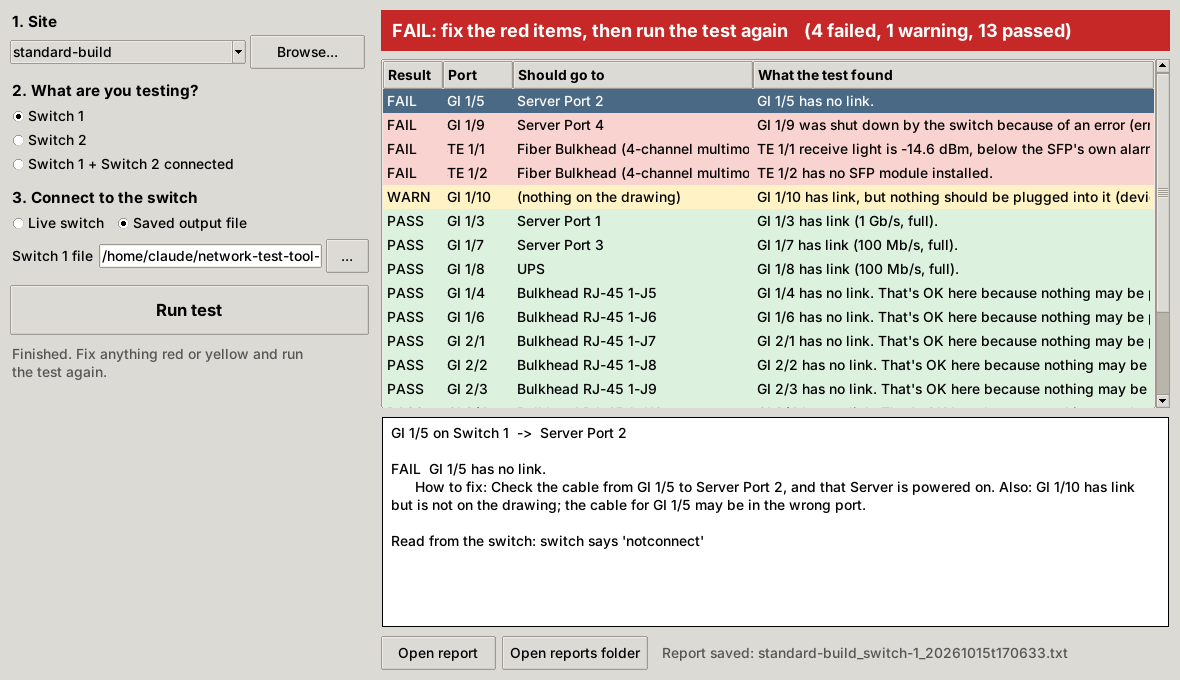
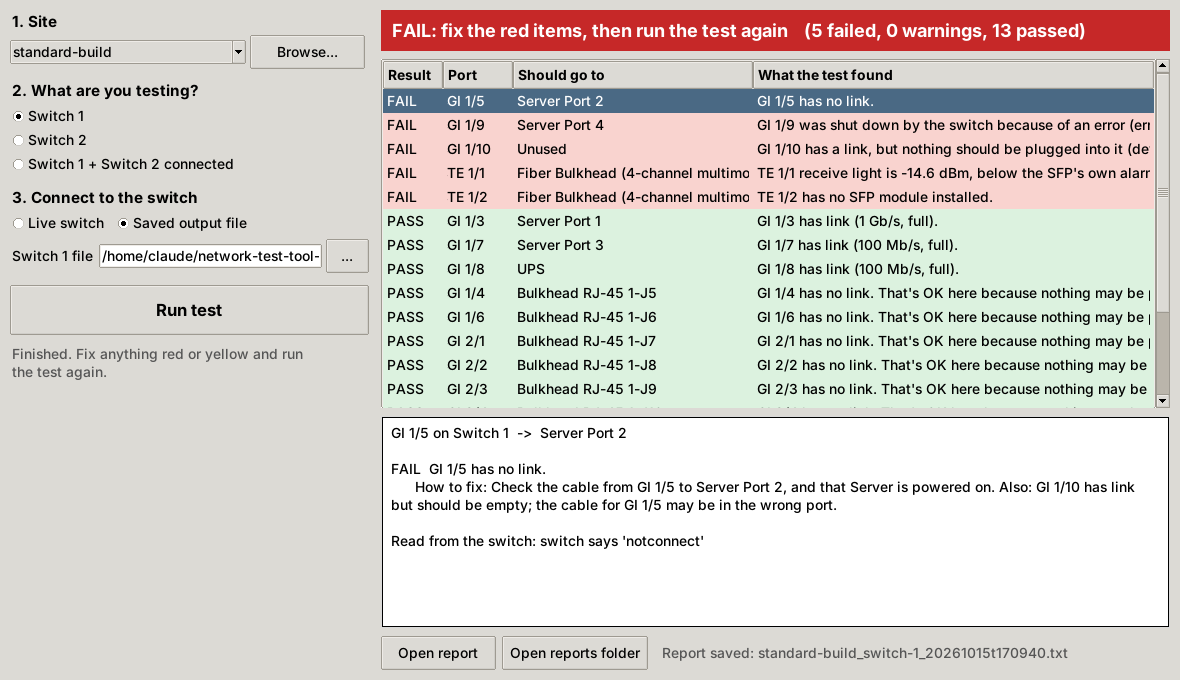
Check unused ports: GI 1/4 on Switch 2 and GI 1/10 on Switch 1
Ports that are on the drawing but empty now have a config entry with
connects_to.kind "unused" and link "down". They pass when empty and fail when
something is plugged in, and show up in every result list. An unused port the
switch doesn't have is skipped rather than failed.

Claude-Session: https://claude.ai/code/session_01FYPcBLZiLEHxvoRsUK1LXB

diff --git a/nettest/checker.py b/nettest/checker.py
@@ -133,7 +133,7 @@ class SwitchChecker:
         if not self.snap.has("status"):
             reason = self.snap.unavailable.get("show interfaces status", "no output")
             raise ValueError("Couldn't read port status from %s (%s)" % (self.plan.name, reason))
-        results = [self.check_port(p) for p in self.plan.ports]
+        results = [r for r in (self.check_port(p) for p in self.plan.ports) if r is not None]
         results += self.check_unlisted()
         self._add_cross_port_hints(results)
         return results
@@ -158,6 +158,9 @@ class SwitchChecker:
                         "Ask whoever maintains the configs to finish this entry in combined.json."))
             return result
 
+        unused = port.connects_to.get("kind") == "unused"
+        if row is None and unused:
+            return None  # e.g. an expansion-module port on a switch without the module
         if row is None:
             add(Finding(Status.FAIL, "link",
                         "%s (%s) doesn't exist on %s." % (label, port.interface, self.plan.name),
@@ -175,7 +178,7 @@ class SwitchChecker:
             self._check_speed_duplex(result, port, row)
             self._check_neighbor(result, port)
             self._check_macs(result, port)
-        if port.media == "fiber":
+        if port.media == "fiber" and not unused:
             self._check_optic(result, port, row, state)
 
         if not result.findings:
@@ -193,15 +196,20 @@ class SwitchChecker:
 
         if state == "up":
             if want == "down":
-                add(Finding(Status.FAIL, "link",
-                            "%s has a link, but nothing should be plugged into it." % label,
-                            "Unplug the cable from %s, or check the drawing." % label))
+                add(Finding(Status.FAIL, "unused",
+                            "%s has a link, but nothing should be plugged into it%s."
+                            % (label, self._describe_far_end(port.interface)),
+                            "Check whether a cable meant for another port was plugged into "
+                            "%s by mistake, and unplug it." % label))
             else:
                 row = self.snap.status[port.interface]
                 add(Finding(Status.PASS, "link", "%s has link (%s, %s)."
                             % (label, _speed_text(row["speed_mbps"]), row["duplex"] or "auto")))
             return
 
+        if want == "down" and state in ("admin-down", "no-sfp", "down"):
+            add(Finding(Status.PASS, "link", "%s is empty, as expected." % label))
+            return
         if state == "admin-down":
             add(Finding(Status.FAIL if want == "up" else Status.WARN, "link",
                         "%s is turned off in the switch configuration (shutdown)." % label,
@@ -499,20 +507,21 @@ class SwitchChecker:
     # ---- hints that need every port's result --------------------------
 
     def _add_cross_port_hints(self, results):
-        stray = [r for r in results if not r.listed]
+        stray = [r for r in results
+                 if any(f.check in ("unlisted", "unused") and f.status != Status.PASS
+                        for f in r.findings)]
         if not stray:
             return
         names = ", ".join(r.diagram_label for r in stray)
         for r in results:
-            if not r.listed:
+            if r in stray:
                 continue
             nolink = [f for f in r.findings if f.check == "link" and f.status == Status.FAIL
                       and "no link" in f.message]
             for f in nolink:
                 f.action = (f.action or "") + (
-                    " Also: %s %s link but %s not on the drawing; the cable for %s may be "
+                    " Also: %s %s link but should be empty; the cable for %s may be "
                     "in the wrong port." % (names, "has" if len(stray) == 1 else "have",
-                                            "is" if len(stray) == 1 else "are",
                                             r.diagram_label))
 
     # ---- helpers -------------------------------------------------------

diff --git a/tests/test_engine.py b/tests/test_engine.py
@@ -87,7 +87,7 @@ def test_switch1_good_sample_passes():
     report = run_single(config("switch1.json"), sample("switch1_good.log"))
     assert report.status == Status.PASS, report.to_text()
     assert report.switches[0].hostname == "SW1-ESS3300"
-    assert report.counts()["pass"] == 17
+    assert report.counts()["pass"] == 18
 
 
 def test_switch1_faults_sample():
@@ -109,10 +109,22 @@ def test_switch1_faults_sample():
     assert ports["TE 1/1"].observed["rx_dbm"] == -14.6
     assert ports["TE 1/2"].status == Status.FAIL
     assert "no SFP" in ports["TE 1/2"].summary
-    stray = ports["GI 1/10"]
-    assert not stray.listed and stray.status == Status.WARN
+    unused = ports["GI 1/10"]          # unused on the drawing, but something is plugged in
+    assert unused.status == Status.FAIL
+    assert "nothing should be plugged into it (device MAC 3c:ec:ef:10:20:32)" in unused.summary
     # The internal app-hosting port is always up and is never reported.
-    assert [r.diagram_label for r in report.ports() if not r.listed] == ["GI 1/10"]
+    assert [r.diagram_label for r in report.ports() if not r.listed] == []
+
+
+def test_unused_port_empty_passes_and_missing_one_is_skipped(tmp_path):
+    ports = by_label(run_single(config("switch1.json"), sample("switch1_good.log")))
+    assert ports["GI 1/10"].summary == "GI 1/10 is empty, as expected."
+    site = copy_configs(tmp_path)
+    edit_json(site / "switch1.json", lambda d: d["ports"].append({
+        "interface": "GigabitEthernet3/1", "media": "copper",
+        "connects_to": {"device": "Unused", "kind": "unused"}, "expect": {"link": "down"}}))
+    report = run_single(str(site / "switch1.json"), sample("switch1_good.log"))
+    assert "GI 3/1" not in by_label(report) and report.status == Status.PASS
 
 
 def test_switch2_folder_sample_passes_and_notes_lldp_off():
@@ -189,11 +201,15 @@ def test_swapped_cables_detected_by_mac(tmp_path):
     assert "swapped" in ports["GI 1/3"].findings[-1].action
 
 
-def test_unlisted_fail_if_up(tmp_path):
+def test_unlisted_port_with_link(tmp_path):
+    path = write_variant(tmp_path, sample("switch1_good.log"), [(
+        "Gi2/9                           notconnect   1            auto   auto",
+        "Gi2/9                           connected    1          a-full a-1000")])
+    stray = by_label(run_single(config("switch1.json"), path))["GI 2/9"]
+    assert not stray.listed and stray.status == Status.WARN
     site = copy_configs(tmp_path)
     edit_json(site / "switch1.json", lambda d: d.update(unlisted_ports="fail_if_up"))
-    report = run_single(str(site / "switch1.json"), sample("switch1_faults.log"))
-    assert by_label(report)["GI 1/10"].status == Status.FAIL
+    assert by_label(run_single(str(site / "switch1.json"), path))["GI 2/9"].status == Status.FAIL
 
 
 def test_admin_down_port(tmp_path):
@@ -301,7 +317,7 @@ def test_progress_and_save(tmp_path):
     assert os.path.basename(json_path).startswith("site-7_switch-1_")
     data = json.load(open(json_path))
     assert data["status"] == "fail"
-    assert data["counts"]["fail"] == 4
+    assert data["counts"]["fail"] == 5
     assert "Fix:" in open(txt_path).read()
 
 

diff --git a/tests/test_gui_logic.py b/tests/test_gui_logic.py
@@ -21,8 +21,8 @@ def test_list_sites_finds_standard_build():
 
 def test_sorted_rows_puts_problems_first_in_config_order():
     rows = logic.sorted_rows(faults_report())
-    assert [r.diagram_label for r in rows[:5]] == ["GI 1/5", "GI 1/9", "TE 1/1", "TE 1/2", "GI 1/10"]
-    assert [r.status for r in rows[:5]] == [Status.FAIL] * 4 + [Status.WARN]
+    assert [r.diagram_label for r in rows[:5]] == ["GI 1/5", "GI 1/9", "GI 1/10", "TE 1/1", "TE 1/2"]
+    assert [r.status for r in rows[:5]] == [Status.FAIL] * 5
     assert all(r.status == Status.PASS for r in rows[5:])
 
 

diff --git a/README.md b/README.md
@@ -158,7 +158,7 @@ Each port:
 | `interface` | Full IOS name, e.g. `GigabitEthernet1/3`, `TenGigabitEthernet1/1`. |
 | `diagram_label` | How the port is shown to the tech (`GI 1/3`, `TE 1/1`). |
 | `media` | `copper` or `fiber`. |
-| `connects_to` | `device`, `port` (or `null` if the drawing shows none), and `kind`: `device`, `bulkhead` (passive patch point) or `switch`. |
+| `connects_to` | `device`, `port` (or `null` if the drawing shows none), and `kind`: `device`, `bulkhead` (passive patch point), `switch`, or `unused` (on the drawing but empty: give it `"expect": {"link": "down"}` so the test fails if something is plugged in; skipped if the switch doesn't have the port). |
 | `optic` | Fiber only: SFP part number, type, wavelength, multimode/singlemode. |
 | `expect` | Overrides for this port: `link` (`up`, `optional`, `down`), `speed_mbps`, `duplex`, `cdp_neighbor`, `mac_addresses`, `light_levels_dbm`. |
 | `note` | Plain-English note shown to the tech. |
